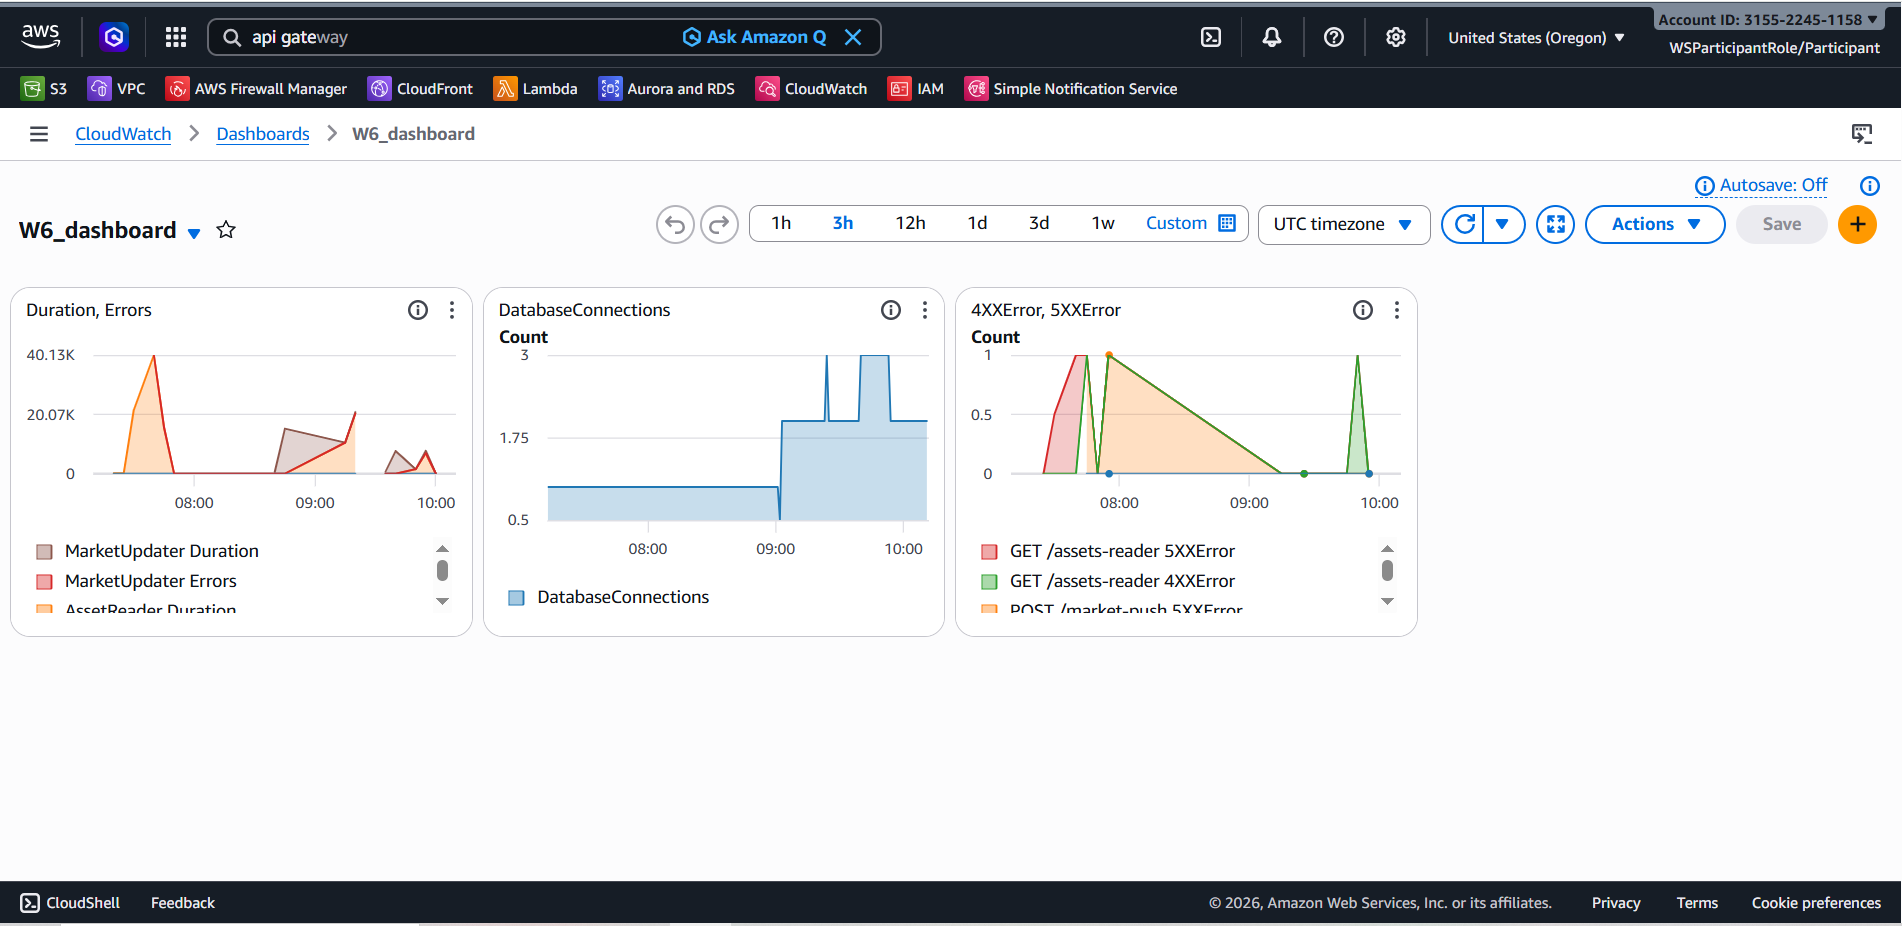
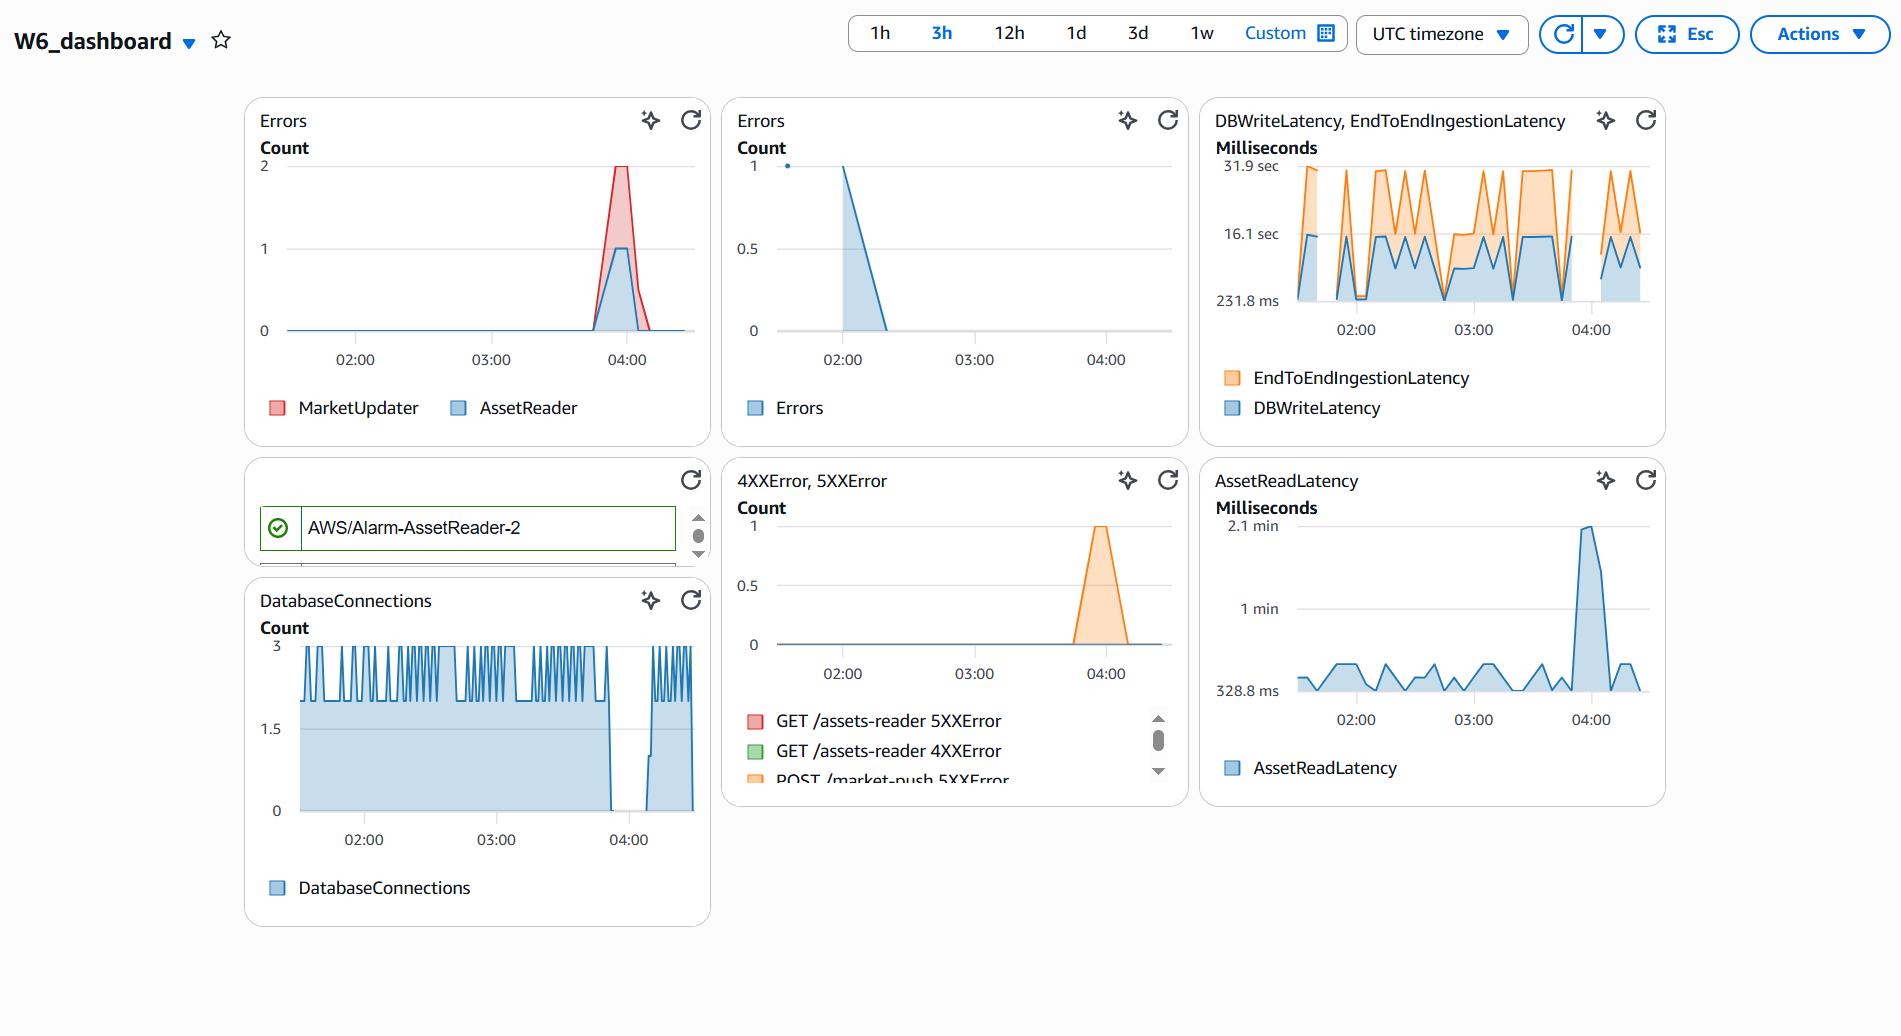
add image mh3

diff --git a/evidence_pack/W6_evidence.md b/evidence_pack/W6_evidence.md
@@ -149,19 +149,7 @@ Wire to SNS topic `BudgetAlerts_Topic`
 ![alt text](../assets/lamda_sns_policy.png)
 ![alt text](../assets/lambda_sns_policy_detailed.png)
 
-# MH-OBS
 
-## CloudWatch Dashboard
-
-**Dashboard:** A CloudWatch dashboard was created with:
-
-- standard Lambda duration, errors widget
-- standard RDS DatabaseConnections widget
-- standard API Gateway 4XXError, 5XXError widget
-
-![CloudWatch dashboard showing Lambda errors, RDS connections, and API metrics](../assets/dashboard.png)
-
-**Observation:** Lambda errors are correlated with RDS connections and API traffic to identify performance issues quickly.
 
 # MH-OBS
 
@@ -169,9 +157,10 @@ Wire to SNS topic `BudgetAlerts_Topic`
 
 **Dashboard:** A CloudWatch dashboard was created with:
 
-- standard Lambda duration, errors widget
-- standard RDS DatabaseConnections widget
-- standard API Gateway 4XXError, 5XXError widget
+- Custom metric AssetReadLatency, DBWriteLatency, EndToEndIngestionLatency widget
+- Standard metric Lambda errors widget
+- Standard metric RDS DatabaseConnections widget
+- Standard metric API Gateway 4XXError, 5XXError widget
 
 ![CloudWatch dashboard showing Lambda errors, RDS connections, and API metrics](../assets/dashboard.png)
 
@@ -188,7 +177,7 @@ To gain deeper visibility into application-level performance beyond standard AWS
 - **Namespace:** `XBrain/AssetManagement`
 - **Metric Name:** `AssetReadLatency`
 - **Unit:** Milliseconds
-- **Dimension:** `Operation=ReadAsset`
+- **Dimension:** 
 
 **What it measures:** The duration from when the Lambda function initiates a database query until the data is fully retrieved and ready to be processed. This includes:
 - Database connection establishment time
@@ -213,7 +202,7 @@ To gain deeper visibility into application-level performance beyond standard AWS
 - **Namespace:** `XBrain/AssetManagement`
 - **Metric Name:** `DBWriteLatency`
 - **Unit:** Milliseconds
-- **Dimension:** `Operation=WriteAsset`
+- **Dimension:**
 
 **What it measures:** The complete database write cycle, including:
 - Database connection acquisition from the pool
@@ -247,7 +236,7 @@ To gain deeper visibility into application-level performance beyond standard AWS
 - **Namespace:** `XBrain/AssetManagement`
 - **Metric Name:** `EndToEndIngestionLatency`
 - **Unit:** Milliseconds
-- **Dimension:** `Operation=IngestAsset`
+- **Dimension:**
 
 **What it measures:** The complete request lifecycle, including:
 - API Gateway request routing time
